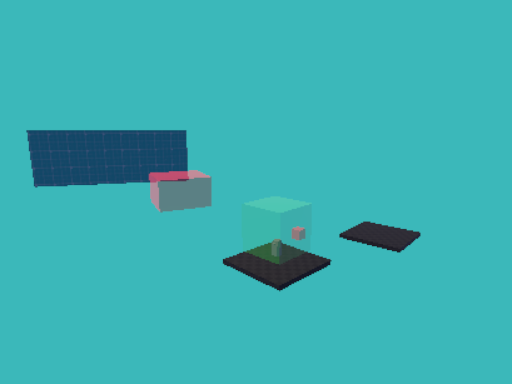
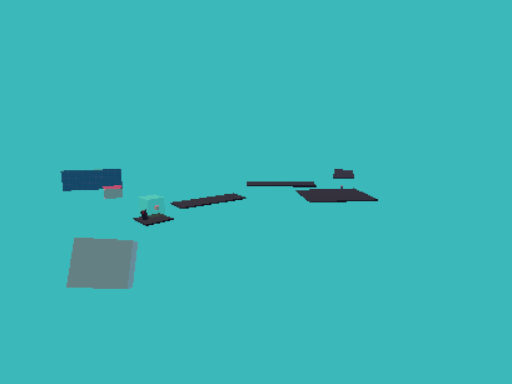
checkpoint   角度重置逻辑

diff --git a/Killer/Assets/YouYouTest/Test/NewVRMove2.cs b/Killer/Assets/YouYouTest/Test/NewVRMove2.cs
@@ -452,6 +452,10 @@ namespace YouYouTest.VRMove2
 
         #region 私有变量
 
+        // 用于记录初始的 cameraOffset 本地变换，以便在重置时恢复
+        private Vector3 initialCameraOffsetLocalPos;
+        private Quaternion initialCameraOffsetLocalRot;
+
         // 用于检测grip键状态变化
         private bool lastLeftGripPressed;
         private bool lastRightGripPressed;
@@ -481,6 +485,16 @@ namespace YouYouTest.VRMove2
         // Start is called once before the first execution of Update after the MonoBehaviour is created
         void Start()
         {
+            // 记录 cameraOffset 的初始本地变换
+            if (cameraOffset != null)
+            {
+                initialCameraOffsetLocalPos = cameraOffset.localPosition;
+                initialCameraOffsetLocalRot = cameraOffset.localRotation;
+            }
+
+            // 订阅检查点重置事件
+            GlobalEvent.CheckPointReset.AddListener(OnCheckPointReset);
+
             // 初始化grip状态
             lastLeftGripPressed = false;
             lastRightGripPressed = false;
@@ -497,6 +511,43 @@ namespace YouYouTest.VRMove2
 
             // 初始化状态机，默认进入地面状态
             ChangeState(new GroundedState(this));
+        }
+
+        void OnDestroy()
+        {
+            // 取消订阅检查点重置事件
+            GlobalEvent.CheckPointReset.RemoveListener(OnCheckPointReset);
+        }
+
+        private void OnCheckPointReset()
+        {
+            // 当检查点重置时，我们需要确保玩家的真实视角（Head）对准 CheckPoint 的前方
+            // 1. 获取相机相对于 cameraOffset 的本地旋转（主要是 Y 轴）
+            // 2. 设置 cameraOffset 的本地旋转来抵消这个偏移
+            // 3. 同时调整 cameraOffset 的本地位置，使玩家头部（XZ平面）对准 Rigidbody 中心
+            if (cameraOffset != null && playerHead != null)
+            {
+                // 获取头部在 Y 轴上的本地旋转
+                float headLocalY = playerHead.localEulerAngles.y;
+                // 设置 cameraOffset 的旋转为抵消头部的旋转，使最终世界旋转与 Rigidbody 一致
+                cameraOffset.localRotation = Quaternion.Euler(0, -headLocalY, 0);
+
+                // 获取头部相对于 cameraOffset 的本地位置
+                Vector3 headLocalPos = playerHead.localPosition;
+                // 计算偏移位置，使头部在水平方向上位于 Rigidbody 中心
+                Vector3 targetOffsetPos = -(cameraOffset.localRotation * headLocalPos);
+                
+                // 应用新的本地位置，保留 Y 轴（高度）不变，只纠正 XZ 平面的偏移
+                cameraOffset.localPosition = new Vector3(targetOffsetPos.x, cameraOffset.localPosition.y, targetOffsetPos.z);
+
+                Debug.Log($"NewVRMove2: 检查点重置纠正。相机本地偏角: {headLocalY}, 纠正位移: {cameraOffset.localPosition}");
+            }
+            else if (cameraOffset != null)
+            {
+                // 兜底逻辑：恢复初始变换
+                cameraOffset.localPosition = initialCameraOffsetLocalPos;
+                cameraOffset.localRotation = initialCameraOffsetLocalRot;
+            }
         }
 
         // Update is called once per frame

diff --git a/Killer/Assets/YouYouTest/Test/NewVRMove3.cs b/Killer/Assets/YouYouTest/Test/NewVRMove3.cs
@@ -138,8 +138,9 @@ public class NewVRMove3 : MonoBehaviour
     private bool wasRotatingLeft = false;
     private bool wasRotatingRight = false;
 
-
-
+    // 用于记录初始的 cameraOffset 本地变换，以便在重置时恢复
+    private Vector3 initialCameraOffsetLocalPos;
+    private Quaternion initialCameraOffsetLocalRot;
 
 
     //test
@@ -153,12 +154,56 @@ public class NewVRMove3 : MonoBehaviour
     // Start is called once before the first execution of Update after the MonoBehaviour is created
     void Start()
     {
+        // 记录 cameraOffset 的初始本地变换
+        if (cameraOffset != null)
+        {
+            initialCameraOffsetLocalPos = cameraOffset.localPosition;
+            initialCameraOffsetLocalRot = cameraOffset.localRotation;
+        }
+
+        // 订阅检查点重置事件
+        GlobalEvent.CheckPointReset.AddListener(OnCheckPointReset);
+
         // 初始化grip状态
         lastLeftGripPressed = false;
         lastRightGripPressed = false;
 
         // 初始化状态机，默认进入地面状态
         ChangeState(new GroundedState(this));
+    }
+
+    void OnDestroy()
+    {
+        // 取消订阅检查点重置事件
+        GlobalEvent.CheckPointReset.RemoveListener(OnCheckPointReset);
+    }
+
+    private void OnCheckPointReset()
+    {
+        // 当检查点重置时，我们需要确保玩家的真实视角（Head）对准 CheckPoint 的前方
+        if (cameraOffset != null && playerHead != null)
+        {
+            // 获取头部在 Y 轴上的本地旋转
+            float headLocalY = playerHead.localEulerAngles.y;
+            // 设置 cameraOffset 的旋转为抵消头部的旋转，使最终世界旋转与 Rigidbody 一致
+            cameraOffset.localRotation = Quaternion.Euler(0, -headLocalY, 0);
+
+            // 获取头部相对于 cameraOffset 的本地位置
+            Vector3 headLocalPos = playerHead.localPosition;
+            // 计算偏移位置，使头部在水平方向上位于 Rigidbody 中心
+            Vector3 targetOffsetPos = -(cameraOffset.localRotation * headLocalPos);
+            
+            // 应用新的本地位置，保留 Y 轴（高度）不变，只纠正 XZ 平面的偏移
+            cameraOffset.localPosition = new Vector3(targetOffsetPos.x, cameraOffset.localPosition.y, targetOffsetPos.z);
+
+            Debug.Log($"NewVRMove3: 检查点重置纠正。相机本地偏角: {headLocalY}, 纠正位移: {cameraOffset.localPosition}");
+        }
+        else if (cameraOffset != null)
+        {
+            // 兜底逻辑：恢复初始变换
+            cameraOffset.localPosition = initialCameraOffsetLocalPos;
+            cameraOffset.localRotation = initialCameraOffsetLocalRot;
+        }
     }
 
     // Update is called once per frame

diff --git a/Killer/Assets/YouYouTest/Test/NewVRMove.cs b/Killer/Assets/YouYouTest/Test/NewVRMove.cs
@@ -144,8 +144,9 @@ public class NewVRMove : MonoBehaviour
     private bool wasRotatingLeft = false;
     private bool wasRotatingRight = false;
 
-
-
+    // 用于记录初始的 cameraOffset 本地变换，以便在重置时恢复
+    private Vector3 initialCameraOffsetLocalPos;
+    private Quaternion initialCameraOffsetLocalRot;
 
 
     //test
@@ -159,12 +160,56 @@ public class NewVRMove : MonoBehaviour
     // Start is called once before the first execution of Update after the MonoBehaviour is created
     void Start()
     {
+        // 记录 cameraOffset 的初始本地变换
+        if (cameraOffset != null)
+        {
+            initialCameraOffsetLocalPos = cameraOffset.localPosition;
+            initialCameraOffsetLocalRot = cameraOffset.localRotation;
+        }
+
+        // 订阅检查点重置事件
+        GlobalEvent.CheckPointReset.AddListener(OnCheckPointReset);
+
         // 初始化grip状态
         lastLeftGripPressed = false;
         lastRightGripPressed = false;
 
         // 初始化状态机，默认进入地面状态
         ChangeState(new GroundedState(this));
+    }
+
+    void OnDestroy()
+    {
+        // 取消订阅检查点重置事件
+        GlobalEvent.CheckPointReset.RemoveListener(OnCheckPointReset);
+    }
+
+    private void OnCheckPointReset()
+    {
+        // 当检查点重置时，我们需要确保玩家的真实视角（Head）对准 CheckPoint 的前方
+        if (cameraOffset != null && playerHead != null)
+        {
+            // 获取头部在 Y 轴上的本地旋转
+            float headLocalY = playerHead.localEulerAngles.y;
+            // 设置 cameraOffset 的旋转为抵消头部的旋转，使最终世界旋转与 Rigidbody 一致
+            cameraOffset.localRotation = Quaternion.Euler(0, -headLocalY, 0);
+
+            // 获取头部相对于 cameraOffset 的本地位置
+            Vector3 headLocalPos = playerHead.localPosition;
+            // 计算偏移位置，使头部在水平方向上位于 Rigidbody 中心
+            Vector3 targetOffsetPos = -(cameraOffset.localRotation * headLocalPos);
+            
+            // 应用新的本地位置，保留 Y 轴（高度）不变，只纠正 XZ 平面的偏移
+            cameraOffset.localPosition = new Vector3(targetOffsetPos.x, cameraOffset.localPosition.y, targetOffsetPos.z);
+
+            Debug.Log($"NewVRMove: 检查点重置纠正。相机本地偏角: {headLocalY}, 纠正位移: {cameraOffset.localPosition}");
+        }
+        else if (cameraOffset != null)
+        {
+            // 兜底逻辑：恢复初始变换
+            cameraOffset.localPosition = initialCameraOffsetLocalPos;
+            cameraOffset.localRotation = initialCameraOffsetLocalRot;
+        }
     }
 
     // Update is called once per frame
